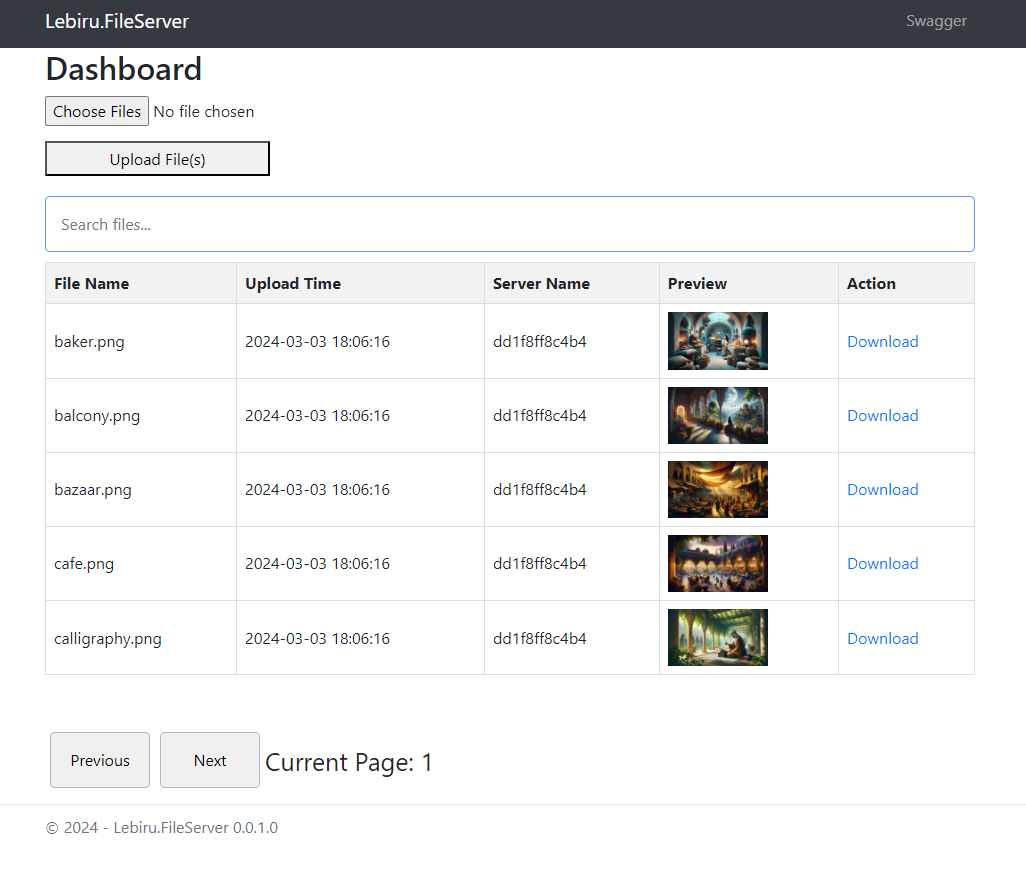
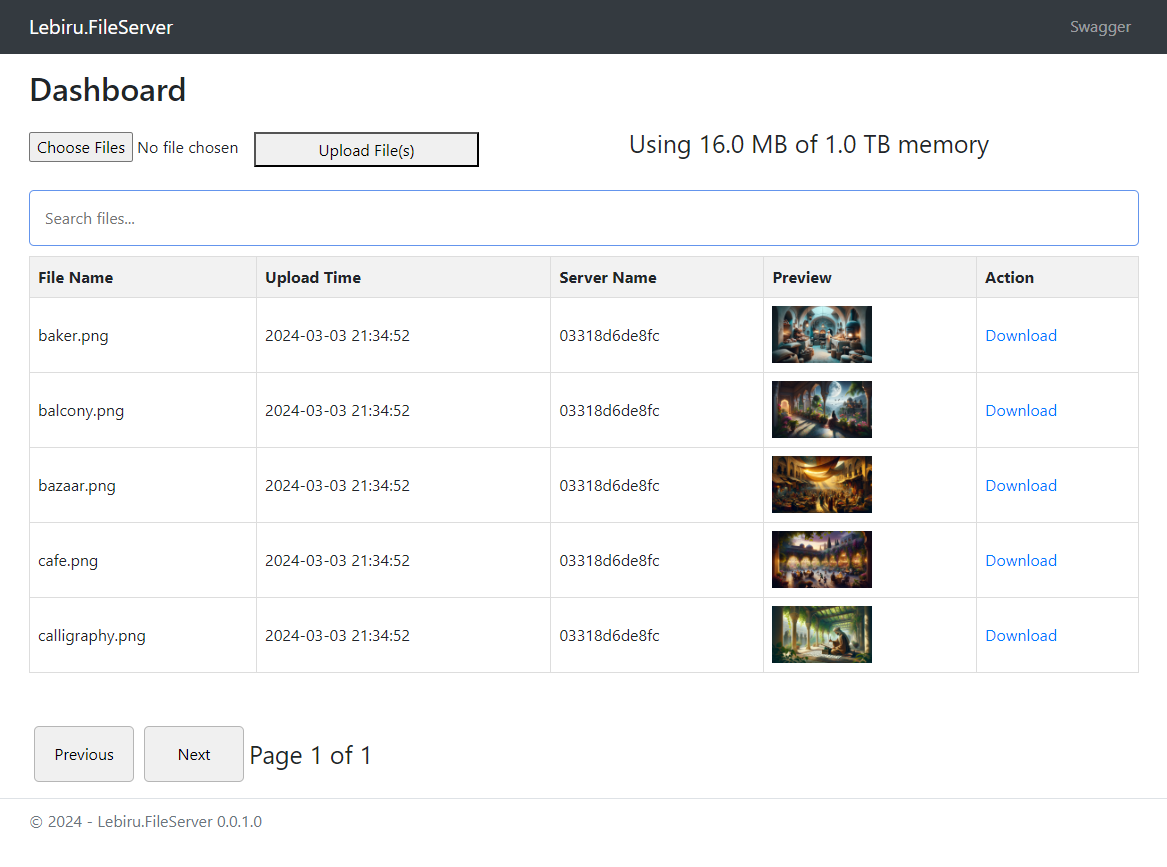
feat: display server space info on top right

diff --git a/app/Controllers/FileController.cs b/app/Controllers/FileController.cs
@@ -1,4 +1,5 @@
-using Microsoft.AspNetCore.Mvc;
+using Lebiru.FileService.Models;
+using Microsoft.AspNetCore.Mvc;
 
 namespace Lebiru.FileService.Controllers
 {
@@ -16,6 +17,9 @@ namespace Lebiru.FileService.Controllers
         [HttpGet("Home")]
         public IActionResult Index()
         {
+            var serverSpaceInfo = GetServerSpaceInfo();
+            ViewBag.UsedSpace = FormatBytes(serverSpaceInfo.UsedSpace);
+            ViewBag.TotalSpace = FormatBytes(serverSpaceInfo.TotalSpace);
             return View(UploadedFiles);
         }
 
@@ -130,6 +134,20 @@ namespace Lebiru.FileService.Controllers
         [HttpGet("AvailableSpace")]
         public IActionResult AvailableSpace()
         {
+            var serverSpaceInfo = GetServerSpaceInfo();
+
+            var response = new
+            {
+                TotalSpace = FormatBytes(serverSpaceInfo.TotalSpace),
+                FreeSpace = FormatBytes(serverSpaceInfo.FreeSpace),
+                UsedSpace = FormatBytes(serverSpaceInfo.UsedSpace)
+            };
+
+            return Ok(response);
+        }
+
+        private ServerSpaceInfo GetServerSpaceInfo()
+        {
             var drive = new DriveInfo(Path.GetPathRoot(Directory.GetCurrentDirectory()));
             long totalSpace = drive.TotalSize;
             long freeSpace = drive.TotalFreeSpace;
@@ -145,14 +163,12 @@ namespace Lebiru.FileService.Controllers
                 }
             }
 
-            var response = new
-            {
-                TotalSpace = FormatBytes(totalSpace),
-                FreeSpace = FormatBytes(freeSpace),
-                UsedSpace = FormatBytes(usedSpace)
+            return new ServerSpaceInfo() { 
+                TotalSpace = totalSpace, 
+                FreeSpace = freeSpace, 
+                UsedSpace = usedSpace 
             };
 
-            return Ok(response);
         }
 
         [HttpGet("ServerName")]

diff --git a/app/Models/ServerSpaceInfo.cs b/app/Models/ServerSpaceInfo.cs
@@ -1,0 +1,13 @@
+namespace Lebiru.FileService.Models
+{
+    internal class ServerSpaceInfo
+    {
+        public ServerSpaceInfo()
+        {
+        }
+
+        public long TotalSpace { get; set; }
+        public long FreeSpace { get; set; }
+        public long UsedSpace { get; set; }
+    }
+}

diff --git a/app/Program.cs b/app/Program.cs
@@ -37,6 +37,8 @@ app.UseHttpsRedirection();
 
 app.UseAuthorization();
 
+app.UseStaticFiles();
+
 app.MapControllers();
 
 app.UseEndpoints(endpoints =>
